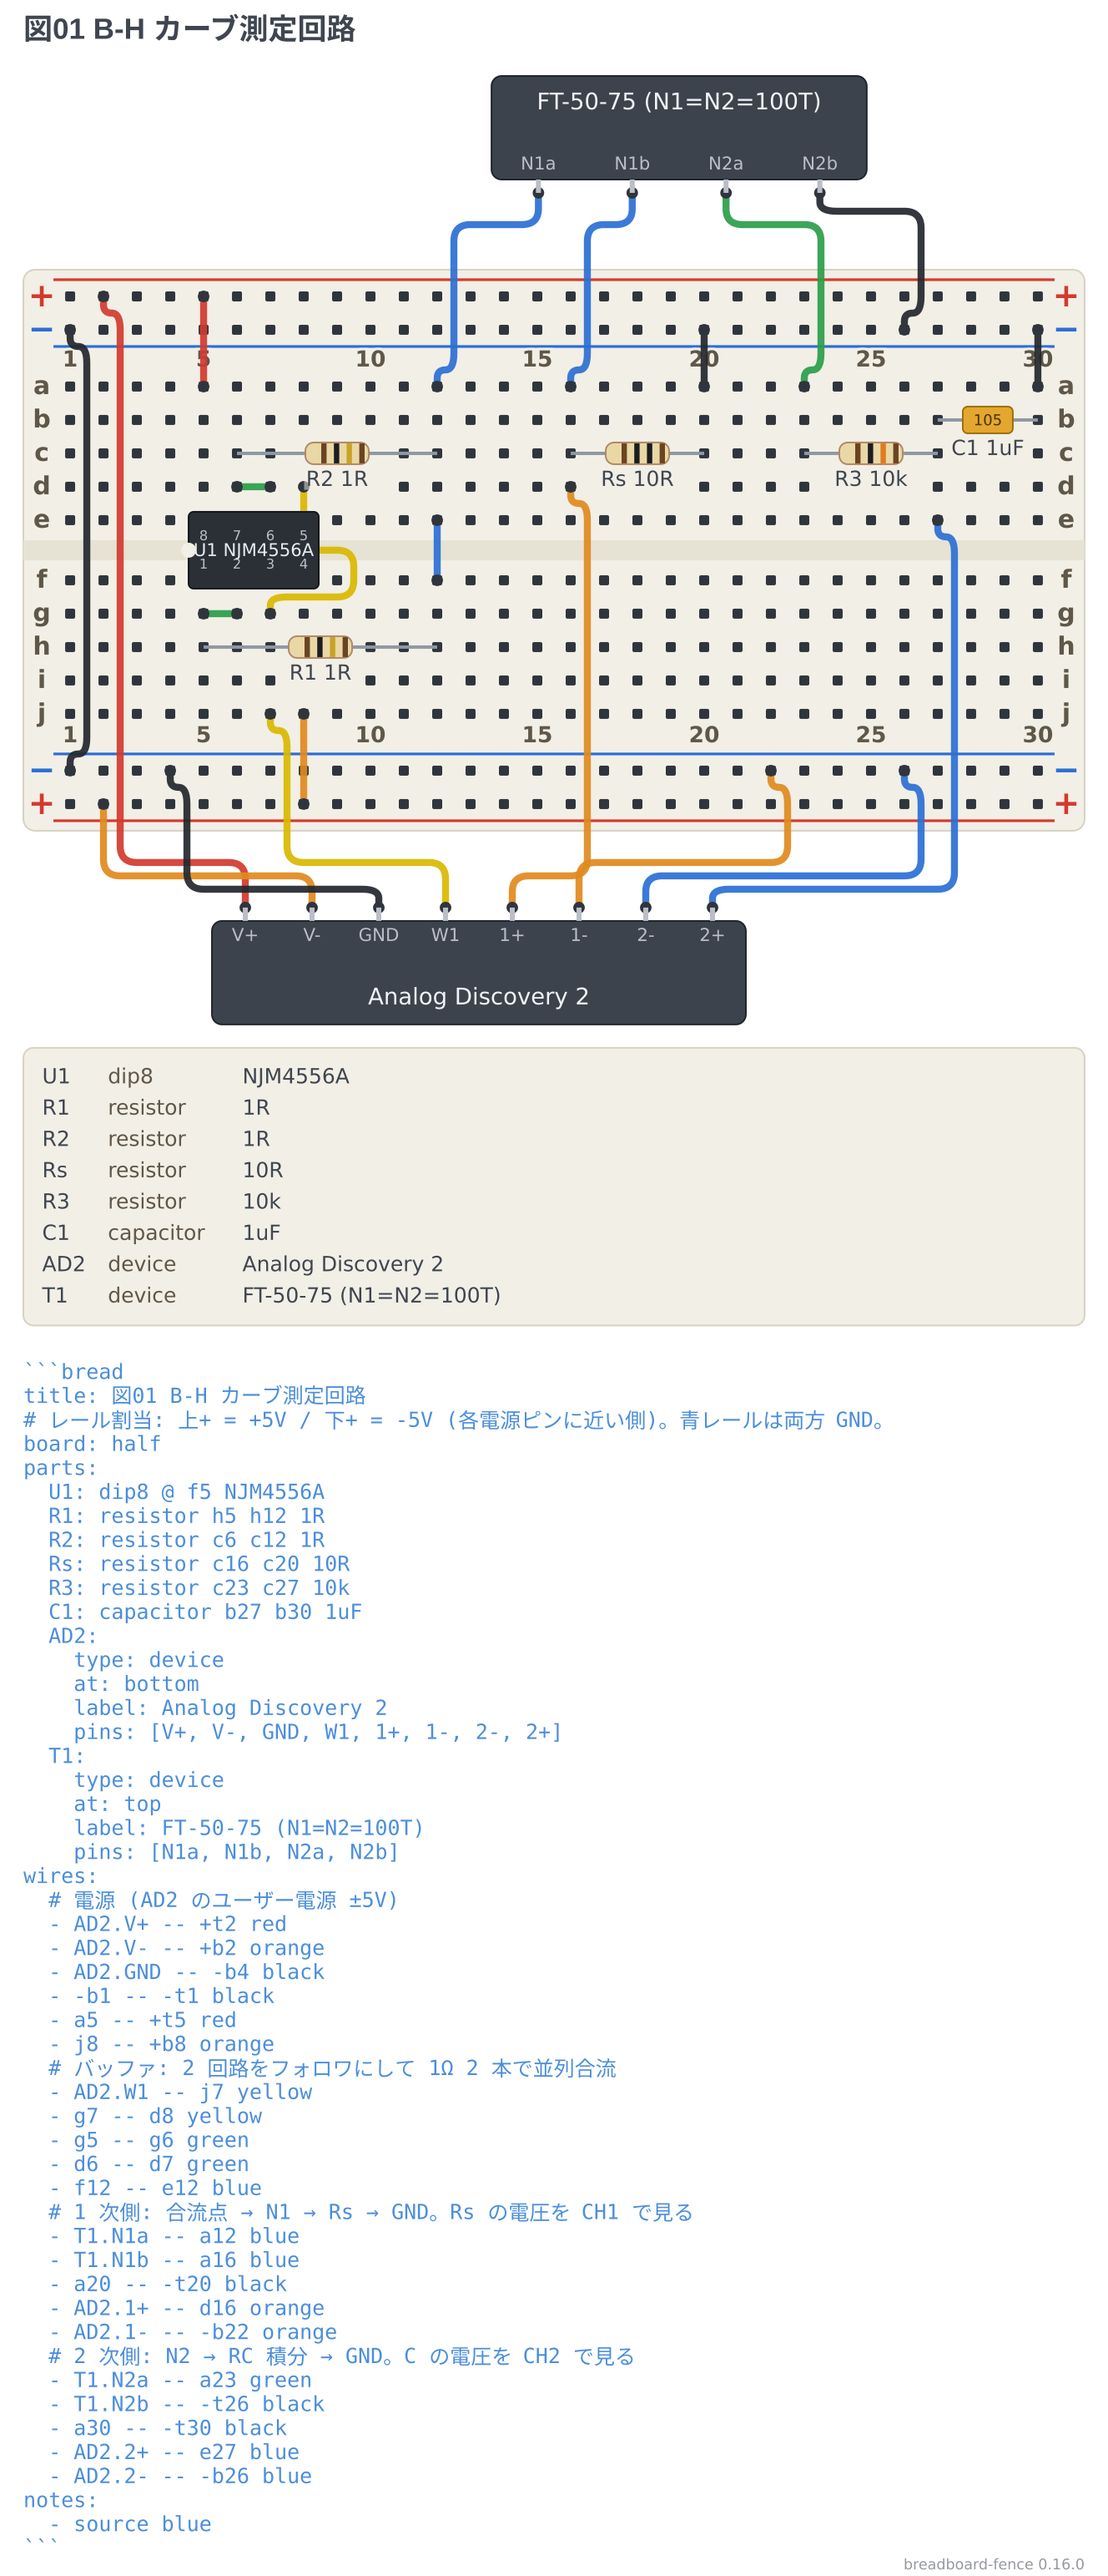
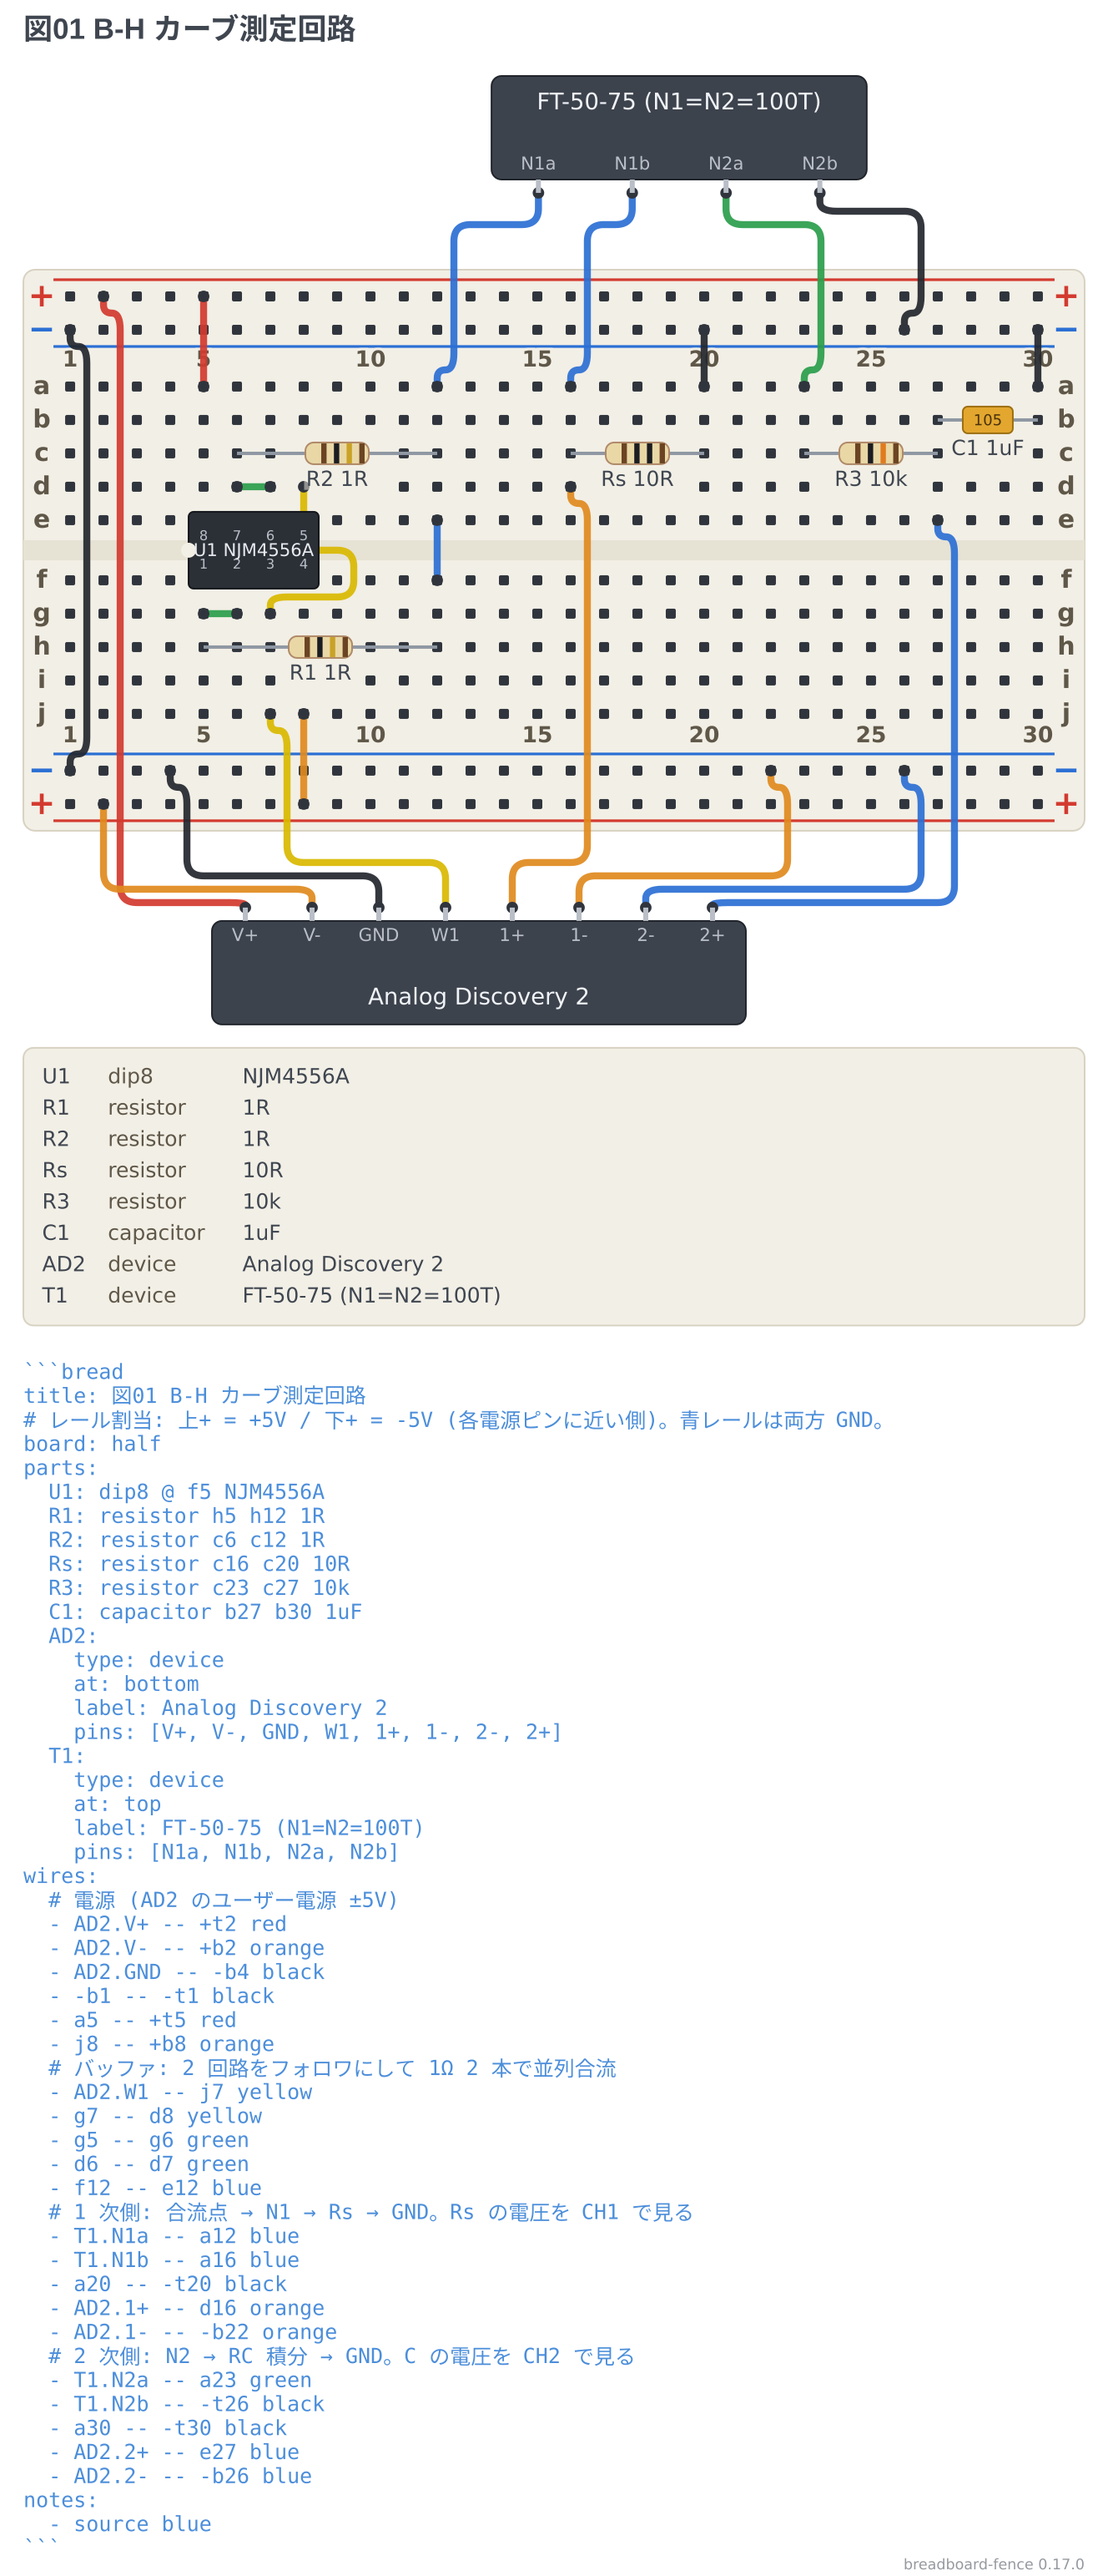
fix(breadboard-fence): 機器の線の段を足と行き先の並びで決め、隣の線を横切らせない
板の外のレーンの段を、左端の順に真ん中から配っていた。機器の線は足から段へ縦に
降り、段を横に走り、行き先の列で板へ降りるので、横の区間が重なる 2 本の上下が
逆だと、機器の側の線の縦の区間が板の側の線の横の区間を切る。教科書の図で AD の
2+ の線が 1+ の線の上を横切り、wires: を並べ替えても直らなかった。

機器のレーンだけ別に配る。曲がり角が内側にあるほう (左へ行く線なら足が右、右へ
行く線なら足が左) を板の側の段に置き、重なる線より 1 つ機器の側へ積む (最長路の
層分け)。重なる塊ごとに真ん中へ寄せるので、1 本だけのレーンは今までどおり。
足の並びと行き先の並びが同じなら、書いた順に依らず交差しないことを試験で見る。

見本の図 (09-am-radio・10-bh-ad2) を焼き直した。

🤖 Generated with [Claude Code](https://claude.com/claude-code)

Changed region(s): [[0.4631, 0.3112, 0.8645, 0.3734], [0.0926, 0.3112, 0.3396, 0.3734]]

diff --git a/packages/breadboard-fence/src/core/router/route.ts b/packages/breadboard-fence/src/core/router/route.ts
@@ -523,7 +523,9 @@ export function routeWires(
     return { entry, exit };
   });
 
-  const offsets = assignSlots(requests, lanes, escapes);
+  const onDeviceLane = requests.map((request, index) =>
+    lanes[index] !== null && deviceLaneOf(request.from, request.to, layout) === lanes[index]);
+  const offsets = assignSlots(requests, lanes, escapes, onDeviceLane, layout);
 
   return requests.map((request, index) => {
     const lane = lanes[index];
@@ -582,11 +584,14 @@ function assignSlots(
   requests: readonly WireRequest[],
   lanes: readonly (Lane | null)[],
   escapes: readonly Escapes[],
+  onDeviceLane: readonly boolean[],
+  layout: Layout,
 ): readonly number[] {
   const offsets = new Array<number>(requests.length).fill(0);
+  for (const [index, offset] of deviceLaneSlots(requests, lanes, escapes, onDeviceLane, layout)) offsets[index] = offset;
   const order = requests
     .map((request, index) => ({ index, ...laneRun(request, escapes[index]!) }))
-    .filter(({ index }) => lanes[index] !== null)
+    .filter(({ index }) => lanes[index] !== null && !onDeviceLane[index])
     .sort((a, b) => a.left - b.left);
 
   const takenByLane = new Map<number, Map<number, Slot>>();
@@ -611,6 +616,96 @@ function assignSlots(
   }
 
   return offsets;
+}
+
+/** 機器のレーンを走る 1 本。`pin` は機器の側の端 (降りる道が振れたならその先) の x。 */
+type DeviceRun = {
+  readonly index: number;
+  readonly left: number;
+  readonly right: number;
+  readonly pin: number;
+  /** 行き先の穴が機器の足より右にあるか。 */
+  readonly rightward: boolean;
+};
+
+const overlaps = (a: DeviceRun, b: DeviceRun): boolean =>
+  a.left < b.right + SLOT_GAP && b.left < a.right + SLOT_GAP;
+
+/**
+ * 機器のレーン (板の外) の段。**足の並びと行き先の列の並びが同じ配線どうしを交差させない。**
+ *
+ * 機器の線は、機器の足から段まで縦に降り、段を横に走り、行き先の列で板へ縦に降りる。
+ * 横の区間が重なる 2 本は、**曲がり角が内側にあるほうを板の側の段に**置くと交わらない:
+ * 左へ行く線どうしなら足が右にあるほう、右へ行く線どうしなら足が左にあるほう。
+ * 逆に置くと、板の側の線の横の区間を、機器の側の線が板へ降りる縦の区間が切る
+ * (教科書の図で AD の `2+` が `1+` の上を横切った)。左端の順に中央から配っていた
+ * ころは、どちらに転ぶかが足の位置まかせだった。
+ *
+ * 左へ行く線と右へ行く線の横の区間が重なるのは、足の並びと行き先の並びが入れ替わって
+ * いるときだけで、そのときはどう置いても 1 回は交わる。
+ *
+ * 段は、先に置いた重なる線より 1 つ機器の側 (最長路の層分け)。重なる線の塊ごとに
+ * 真ん中へ寄せるので、1 本しか通らないレーンは今までどおり真上を走る。
+ */
+function deviceLaneSlots(
+  requests: readonly WireRequest[],
+  lanes: readonly (Lane | null)[],
+  escapes: readonly Escapes[],
+  onDeviceLane: readonly boolean[],
+  layout: Layout,
+): ReadonlyMap<number, number> {
+  const result = new Map<number, number>();
+  const byLane = new Map<Lane, DeviceRun[]>();
+  requests.forEach((request, index) => {
+    const lane = lanes[index];
+    if (!lane || !onDeviceLane[index]) return;
+    const run = laneRun(request, escapes[index]!);
+    // 機器の足は、板から見てレーンの向こう側の端。
+    const fromIsPin = Math.sign(request.from.y - lane.y) === -boardSideOf(lane, layout);
+    const pinX = fromIsPin ? (escapes[index]!.entry?.x ?? request.from.x) : (escapes[index]!.exit?.x ?? request.to.x);
+    const holeX = fromIsPin ? (escapes[index]!.exit?.x ?? request.to.x) : (escapes[index]!.entry?.x ?? request.from.x);
+    const runs = byLane.get(lane) ?? [];
+    runs.push({ index, ...run, pin: pinX, rightward: holeX > pinX });
+    byLane.set(lane, runs);
+  });
+
+  for (const [lane, runs] of byLane) {
+    // 板の側に置くものから順に: 右へ行く線は足の左から、左へ行く線は足の右から。
+    const order = [
+      ...runs.filter((run) => run.rightward).sort((a, b) => a.pin - b.pin || a.index - b.index),
+      ...runs.filter((run) => !run.rightward).sort((a, b) => b.pin - a.pin || a.index - b.index),
+    ];
+    const rank = new Map<number, number>();
+    for (const run of order) {
+      const below = order.filter((other) => rank.has(other.index) && overlaps(run, other));
+      rank.set(run.index, below.reduce((most, other) => Math.max(most, (rank.get(other.index) ?? 0) + 1), 0));
+    }
+
+    const toBoard = boardSideOf(lane, layout);
+    const reach = Math.max(1, Math.floor(lane.halfHeight / slotSpacing(lane)));
+    for (const cluster of clustersOf(order)) {
+      const deepest = Math.max(...cluster.map((run) => rank.get(run.index) ?? 0));
+      for (const run of cluster) {
+        const level = clamp(Math.floor(deepest / 2) - (rank.get(run.index) ?? 0), reach);
+        result.set(run.index, toBoard * level * slotSpacing(lane));
+      }
+    }
+  }
+  return result;
+}
+
+/** レーンから見て板のある向き (y の符号)。 */
+const boardSideOf = (lane: Lane, layout: Layout): number => (lane.y < layout.board.y ? 1 : -1);
+
+/** 横の区間が (間接にでも) 重なる線の塊。 */
+function clustersOf(runs: readonly DeviceRun[]): DeviceRun[][] {
+  const clusters: DeviceRun[][] = [];
+  for (const run of [...runs].sort((a, b) => a.left - b.left)) {
+    const last = clusters[clusters.length - 1];
+    if (last && last.some((other) => overlaps(run, other))) last.push(run);
+    else clusters.push([run]);
+  }
+  return clusters;
 }
 
 /** 段 1 つの埋まり具合。`right` は塞がっている右端、`wires` は載っている本数。 */

diff --git a/packages/breadboard-fence/src/core/router/route.test.ts b/packages/breadboard-fence/src/core/router/route.test.ts
@@ -593,3 +593,27 @@ describe('wires do not run over holes they do not plug into', () => {
     expect(Math.abs(laneY(paths[0]!) - laneY(paths[1]!))).toBeGreaterThanOrEqual(8);
   });
 });
+
+describe('device leads in the same order as their holes do not cross', () => {
+  // 教科書の図: AD の `2+` の線が `1+` の線の上を横切った (`wires:` を並べ替えても直らなかった)。
+  // 足の並び (左から) と行き先の列の並びが同じなら、交差させずに引ける。
+  const deviceLayout = createLayout(createBoard('half'), { deviceTop: true, deviceBottom: true });
+  const hole = (text: string) => deviceLayout.point(parseAddress(text)!);
+  const pinAbove = (x: number): Point => ({ x, y: deviceLayout.deviceBands.top!.y + deviceLayout.deviceBands.top!.height });
+  const pinBelow = (x: number): Point => ({ x, y: deviceLayout.deviceBands.bottom!.y });
+  const lead = (from: Point, to: string) => ({ from, to: hole(to), hints: [] });
+  const shuffled = <T,>(items: readonly T[]): T[][] => [items.slice(), items.slice().reverse(),
+    [...items.slice(1), items[0]!]];
+
+  test.each([
+    ['going left from a device above', [lead(pinAbove(300), 'b3'), lead(pinAbove(340), 'b4'), lead(pinAbove(380), 'b5'), lead(pinAbove(420), 'b6')]],
+    ['going right from a device above', [lead(pinAbove(100), 'b20'), lead(pinAbove(140), 'b21'), lead(pinAbove(180), 'b22')]],
+    ['going left from a device below', [lead(pinBelow(300), 'i3'), lead(pinBelow(340), 'i4'), lead(pinBelow(380), 'i5')]],
+    ['going right from a device below', [lead(pinBelow(100), 'i20'), lead(pinBelow(140), 'i21'), lead(pinBelow(180), 'i22')]],
+    ['both ways from one device above', [lead(pinAbove(300), 'b3'), lead(pinAbove(340), 'b5'), lead(pinAbove(380), 'b25'), lead(pinAbove(420), 'b27')]],
+  ] as const)('%s, whatever order they are written in', (_, leads) => {
+    for (const order of shuffled(leads)) {
+      expect(countCrossings(routeWires(order, deviceLayout))).toBe(0);
+    }
+  });
+});

diff --git a/packages/breadboard-fence/CHANGELOG.md b/packages/breadboard-fence/CHANGELOG.md
@@ -10,6 +10,10 @@
 - **板の外の機器 (`type: device`) の足の名前が隣の名前とくっつかない。** 箱の幅を足の名前の幅から決め、
   帯に詰め込まれて足の間が縮んだら名前を縮め、それでも入らなければ 2 段に互い違いに置く
   (帯に 3 台並べると `VCC TRIG ECHO GND` が 1 つの綴りに読めた)。名前は箱の中に収める。
+- **板の外の機器の線が、足の並びと行き先の列の並びが同じなら交差しない。** 板の外のレーンで横の区間が
+  重なる線は、曲がり角が内側にあるほう (左へ行く線なら足が右のほう、右へ行く線なら足が左のほう) を
+  板の側の段に置く。左端の順に真ん中から配っていたので、AD の `2+` の線が `1+` の線の上を横切った
+  (`wires:` を並べ替えても直らなかった)。
 
 ## [0.17.0] - 2026-09-29
 

diff --git a/packages/tommie-fence/CHANGELOG.md b/packages/tommie-fence/CHANGELOG.md
@@ -9,6 +9,8 @@
 
 - **ブレッドボードとユニバーサル基板の図で、板の外の機器の足の名前が隣の名前とくっつかない**
   (PIR の `GND VCC OUT` が `GNDVCCOUT` と読めた)。縮めても入らなければ 2 段に互い違いに置く。
+- **ブレッドボードの図で、板の外の機器の線が隣の線を横切らない** (足の並びと行き先の列の並びが同じとき。
+  AD の `2+` の線が `1+` の線の上を横切った)。
 
 ## [0.20.0] - 2026-09-29
 
